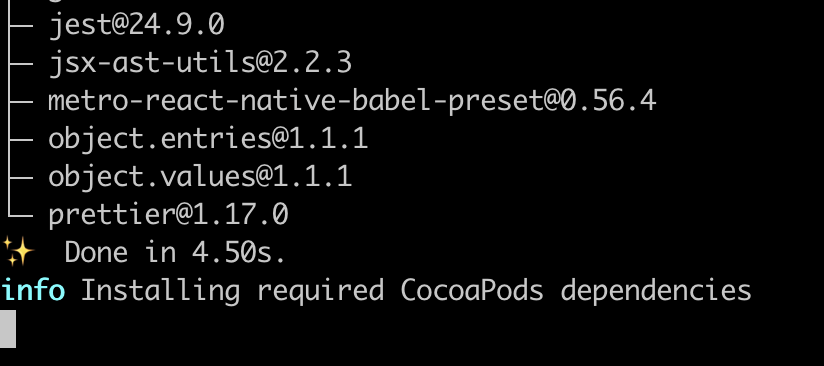
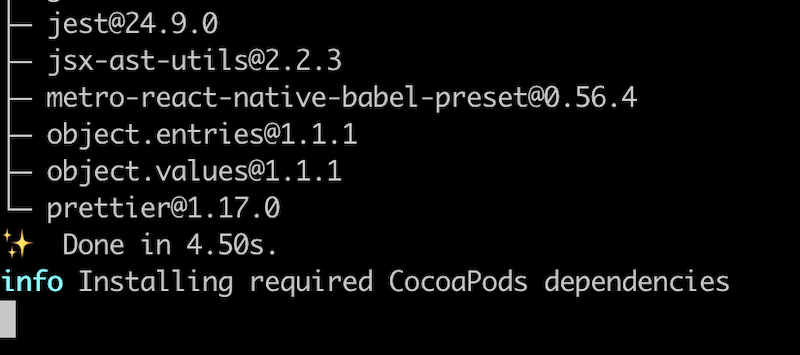
调整图片尺寸

diff --git a/docs/1.项目初始化.md b/docs/1.项目初始化.md
@@ -64,7 +64,7 @@ react-native run-ios
 
 - <u>[React导航的主要贡献者Brent Vatne的精彩演讲](https://www.youtube.com/watch?v=GBhdooVxX6Q)</u>
 
-- <u>[](https://www.youtube.com/watch?v=wJJZ9Od8MjM)</u>
+- <u>[Brent Vatne的演讲](https://www.youtube.com/watch?v=wJJZ9Od8MjM)</u>
 
 
 ### 2. 安装及配置
@@ -140,7 +140,7 @@ public class MainActivity extends ReactActivity {
 - createDrawerNavigator：[直达链接](https://reactnavigation.org/docs/en/drawer-navigator.html)
 - createBottomTabNavigator：[直达链接](https://reactnavigation.org/docs/en/bottom-tab-navigator.html)
 - createMaterialBottomTabNavigator：[直达链接](https://reactnavigation.org/docs/en/material-bottom-tab-navigator.html)
-- createMaterialTopTabNavigator：[直达链接](
+- createMaterialTopTabNavigator：[直达链接](https://reactnavigation.org/docs/en/material-top-tab-navigator.html)
 
 注意：
 
